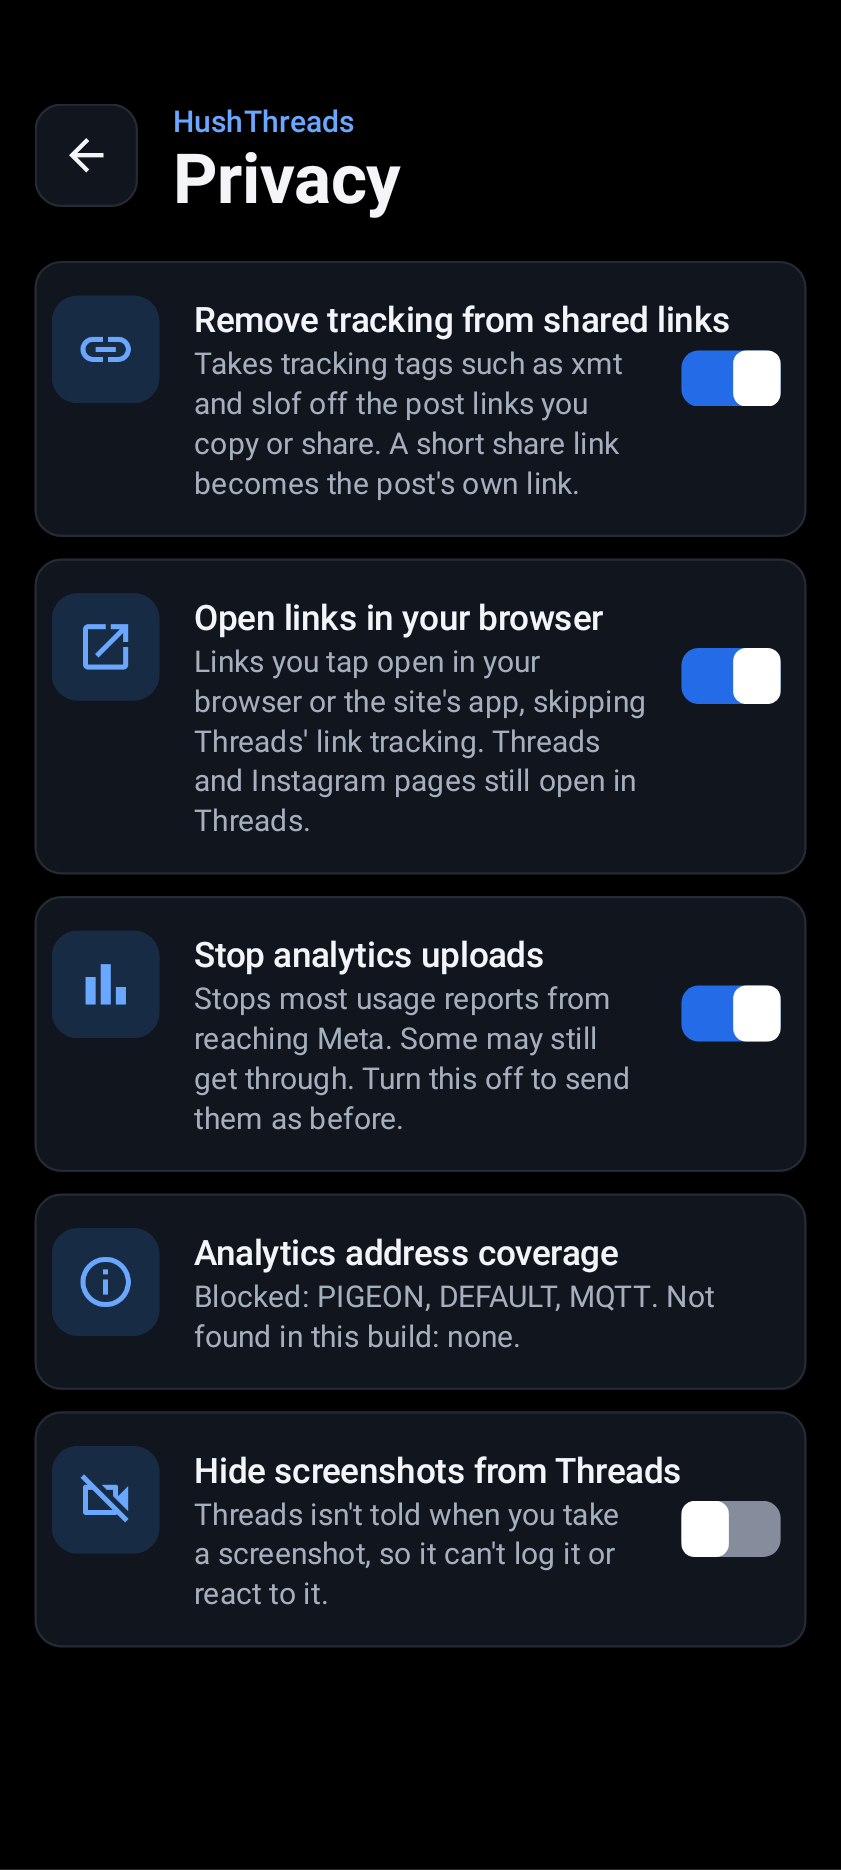
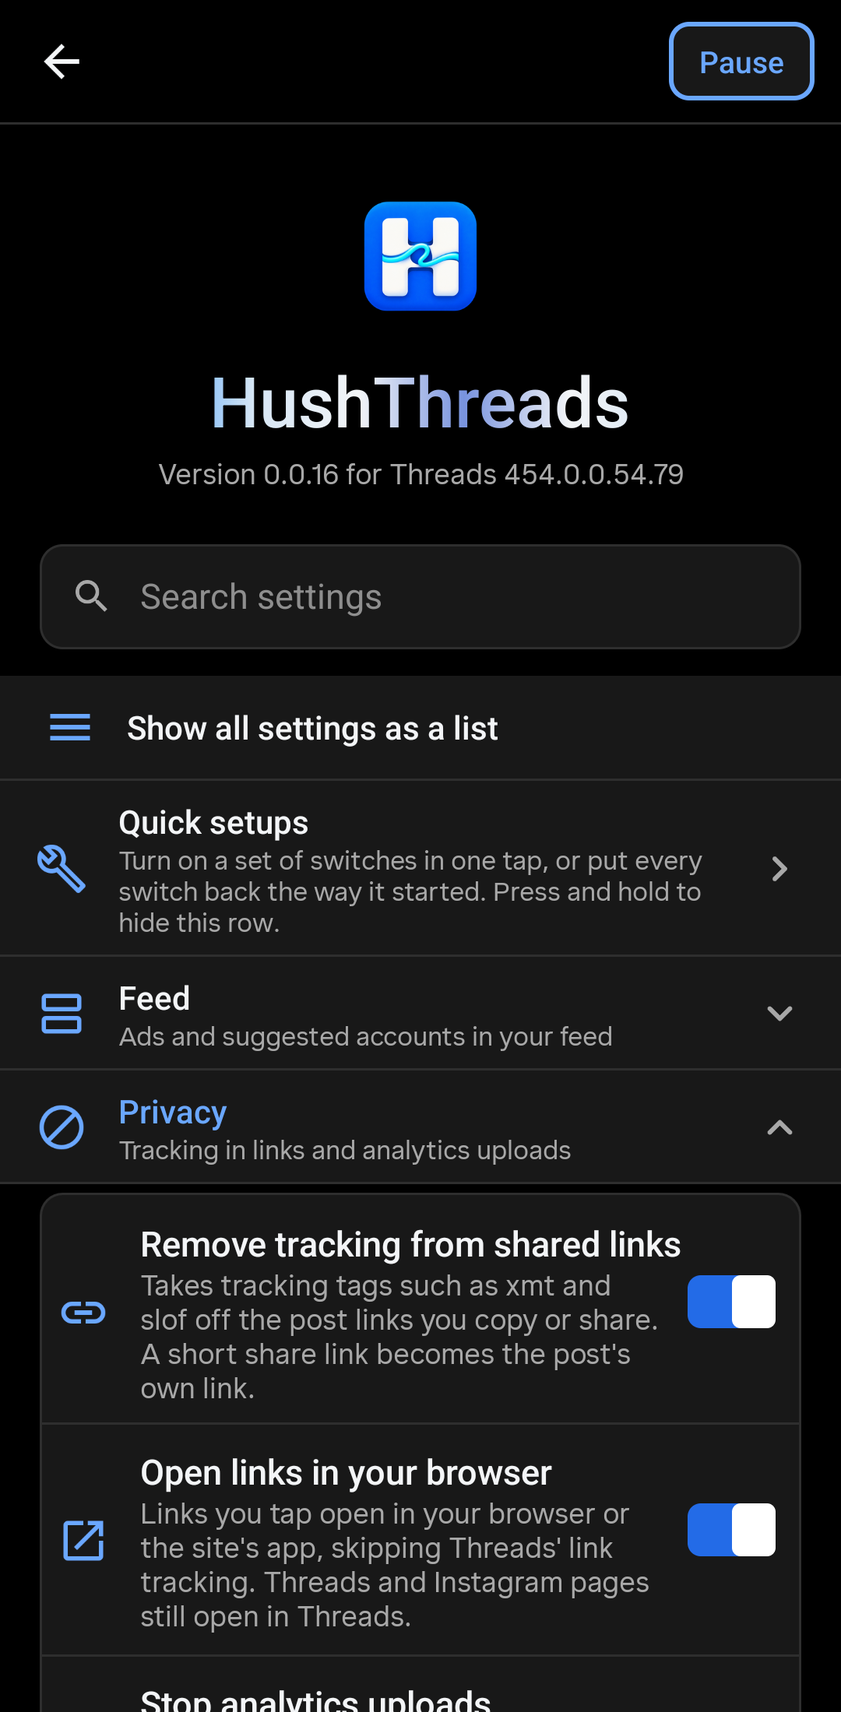
chore(readme): recapture the settings screenshots for the new layout
The home page now opens sections in place under Quick setups, so the
old overview showed pages that no longer exist. The eleven per-page
captures nothing linked to are gone.

diff --git a/README.md b/README.md
@@ -117,7 +117,7 @@ Don't want all of those? Under Pause, backup and diagnostics, `Settings shortcut
 
 If Threads crashes within a minute of starting three times in a row, HushThreads pauses itself and says why at the top of its settings. Your switches stay saved. Tap Resume and restart Threads to turn it back on. A crash in that first minute is kept, so the next diagnostic report you export shows what crashed and which switches were on. Threads has a crash guard of its own. Five quick crashes inside four hours make it delete its data, which signs you out and clears HushThreads' settings. Safe mode usually gets there first, but it can't help when the crash comes from one of the patches without a switch. If Threads keeps crashing, patch again without them.
 
-<p><img src="assets/settings-overview.png" width="320" alt="HushThreads settings with search, Pause, Quick setups and the Feed, Privacy, Downloads and Posts pages"><img src="assets/settings-privacy.png" width="320" alt="Privacy with link tracking, browser, analytics and screenshot controls"></p>
+<p><img src="assets/settings-overview.png" width="320" alt="HushThreads settings with Pause, search, Quick setups and the Feed, Privacy, Downloads, Posts, Appearance, Links and Updates sections"><img src="assets/settings-privacy.png" width="320" alt="The Privacy section opened in place, with the shared link tracking, browser and analytics switches"></p>
 
 ## Signing in
 
